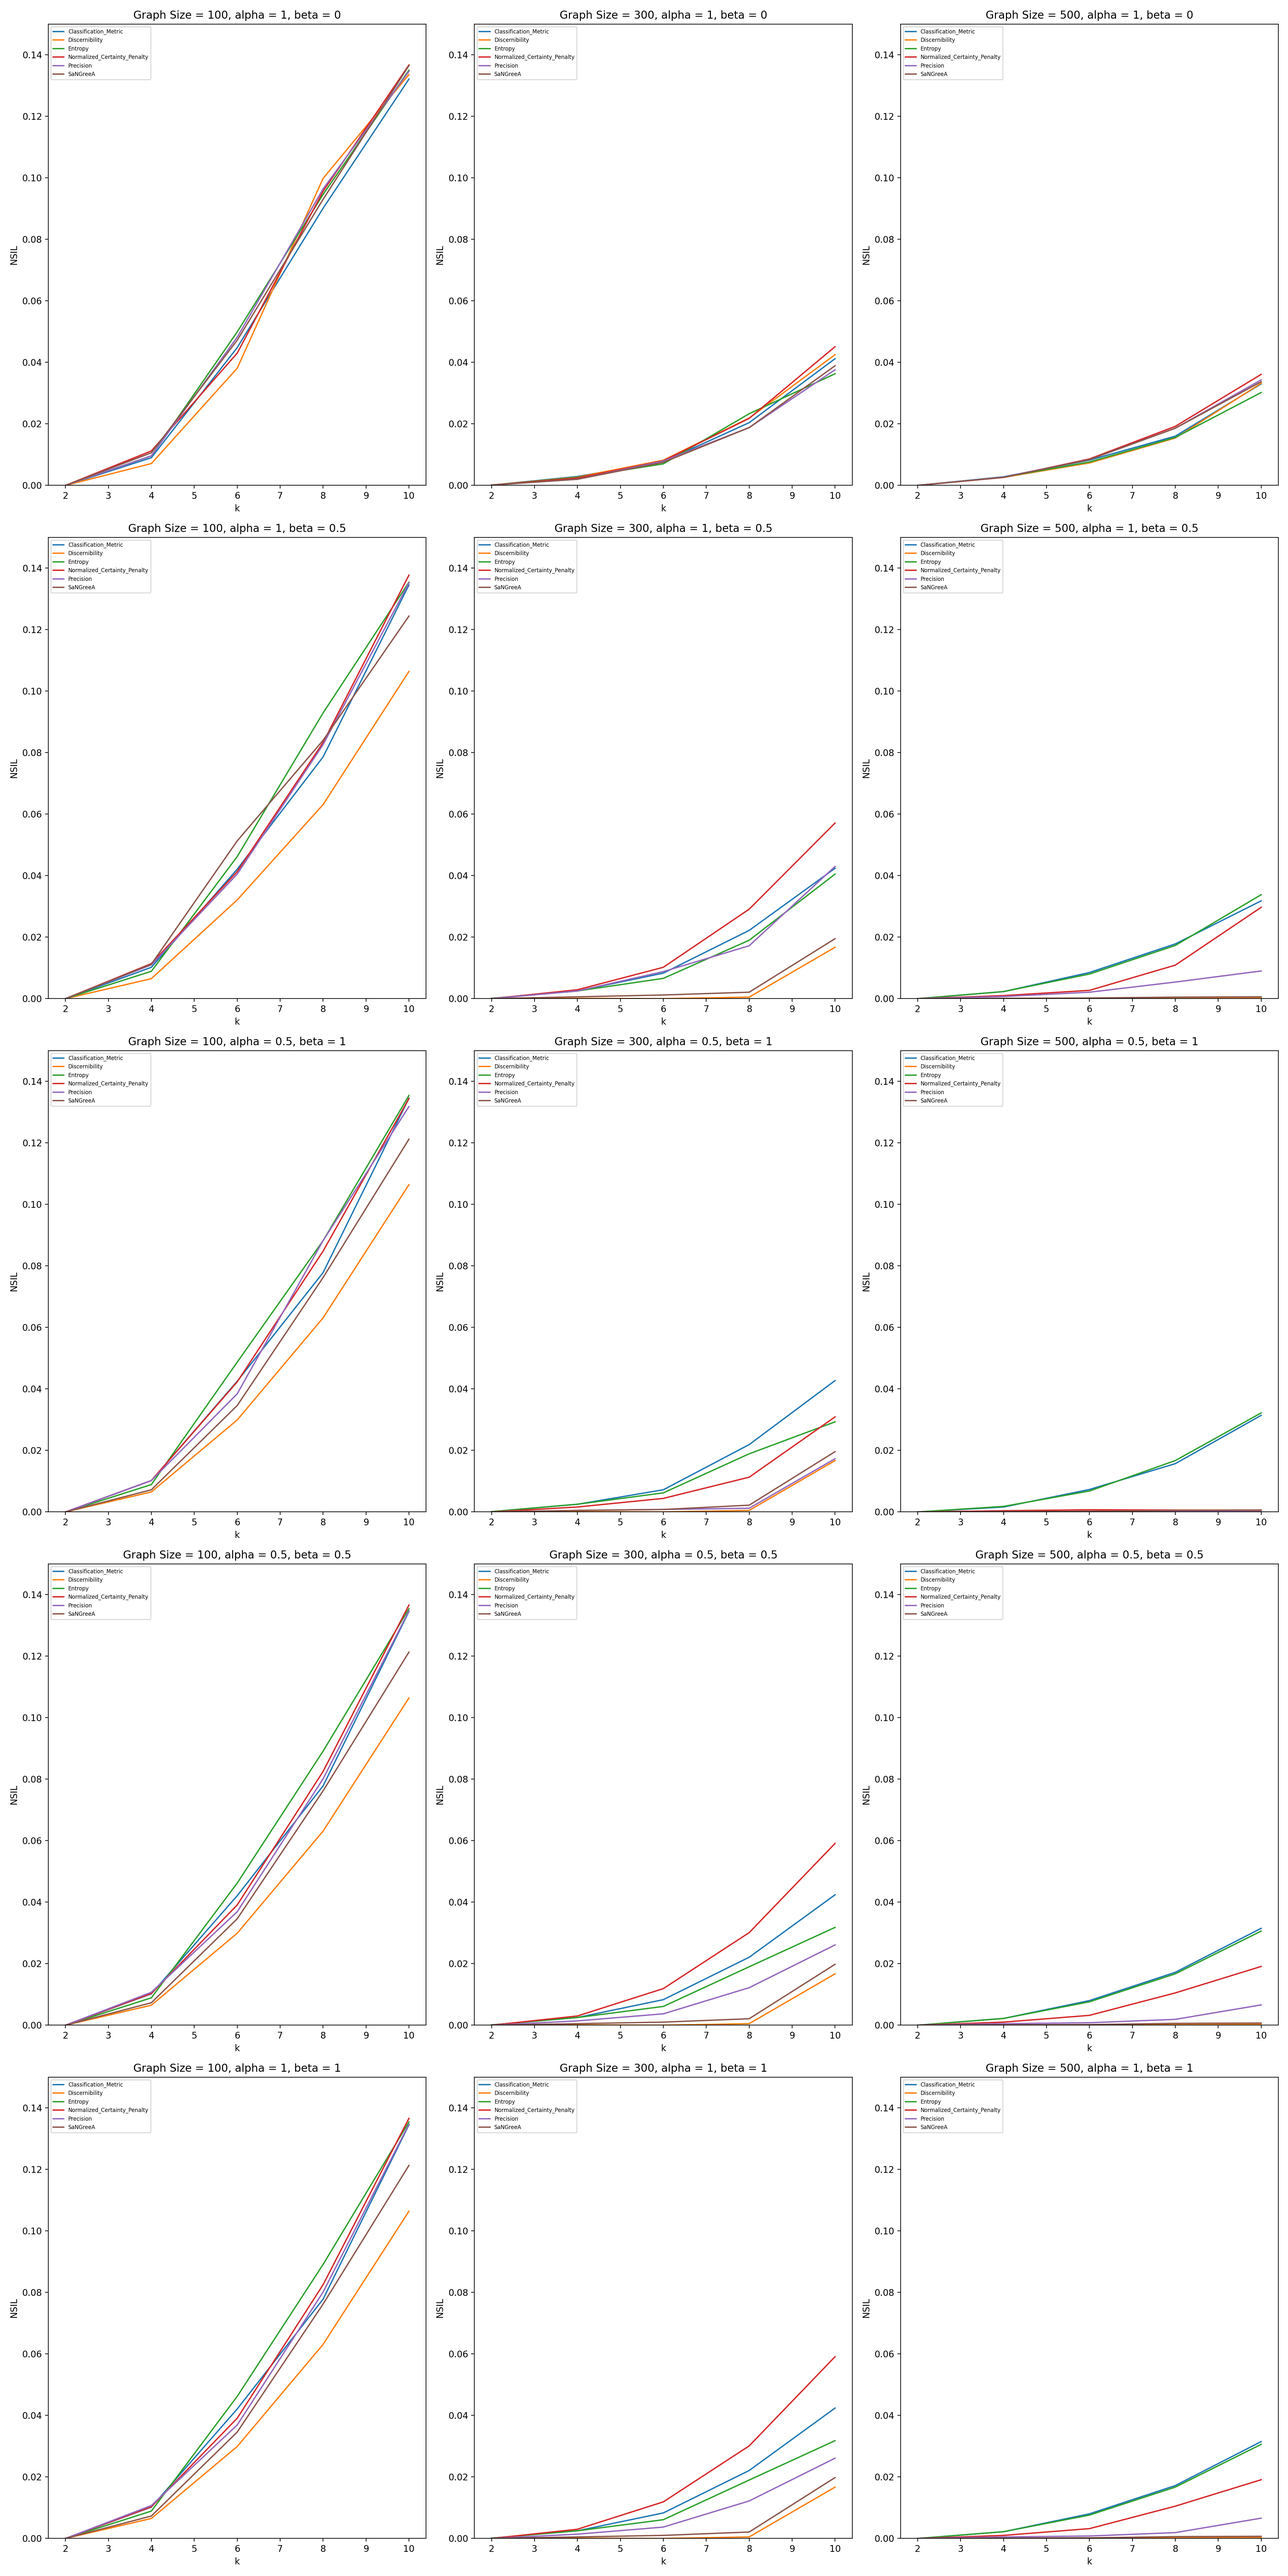
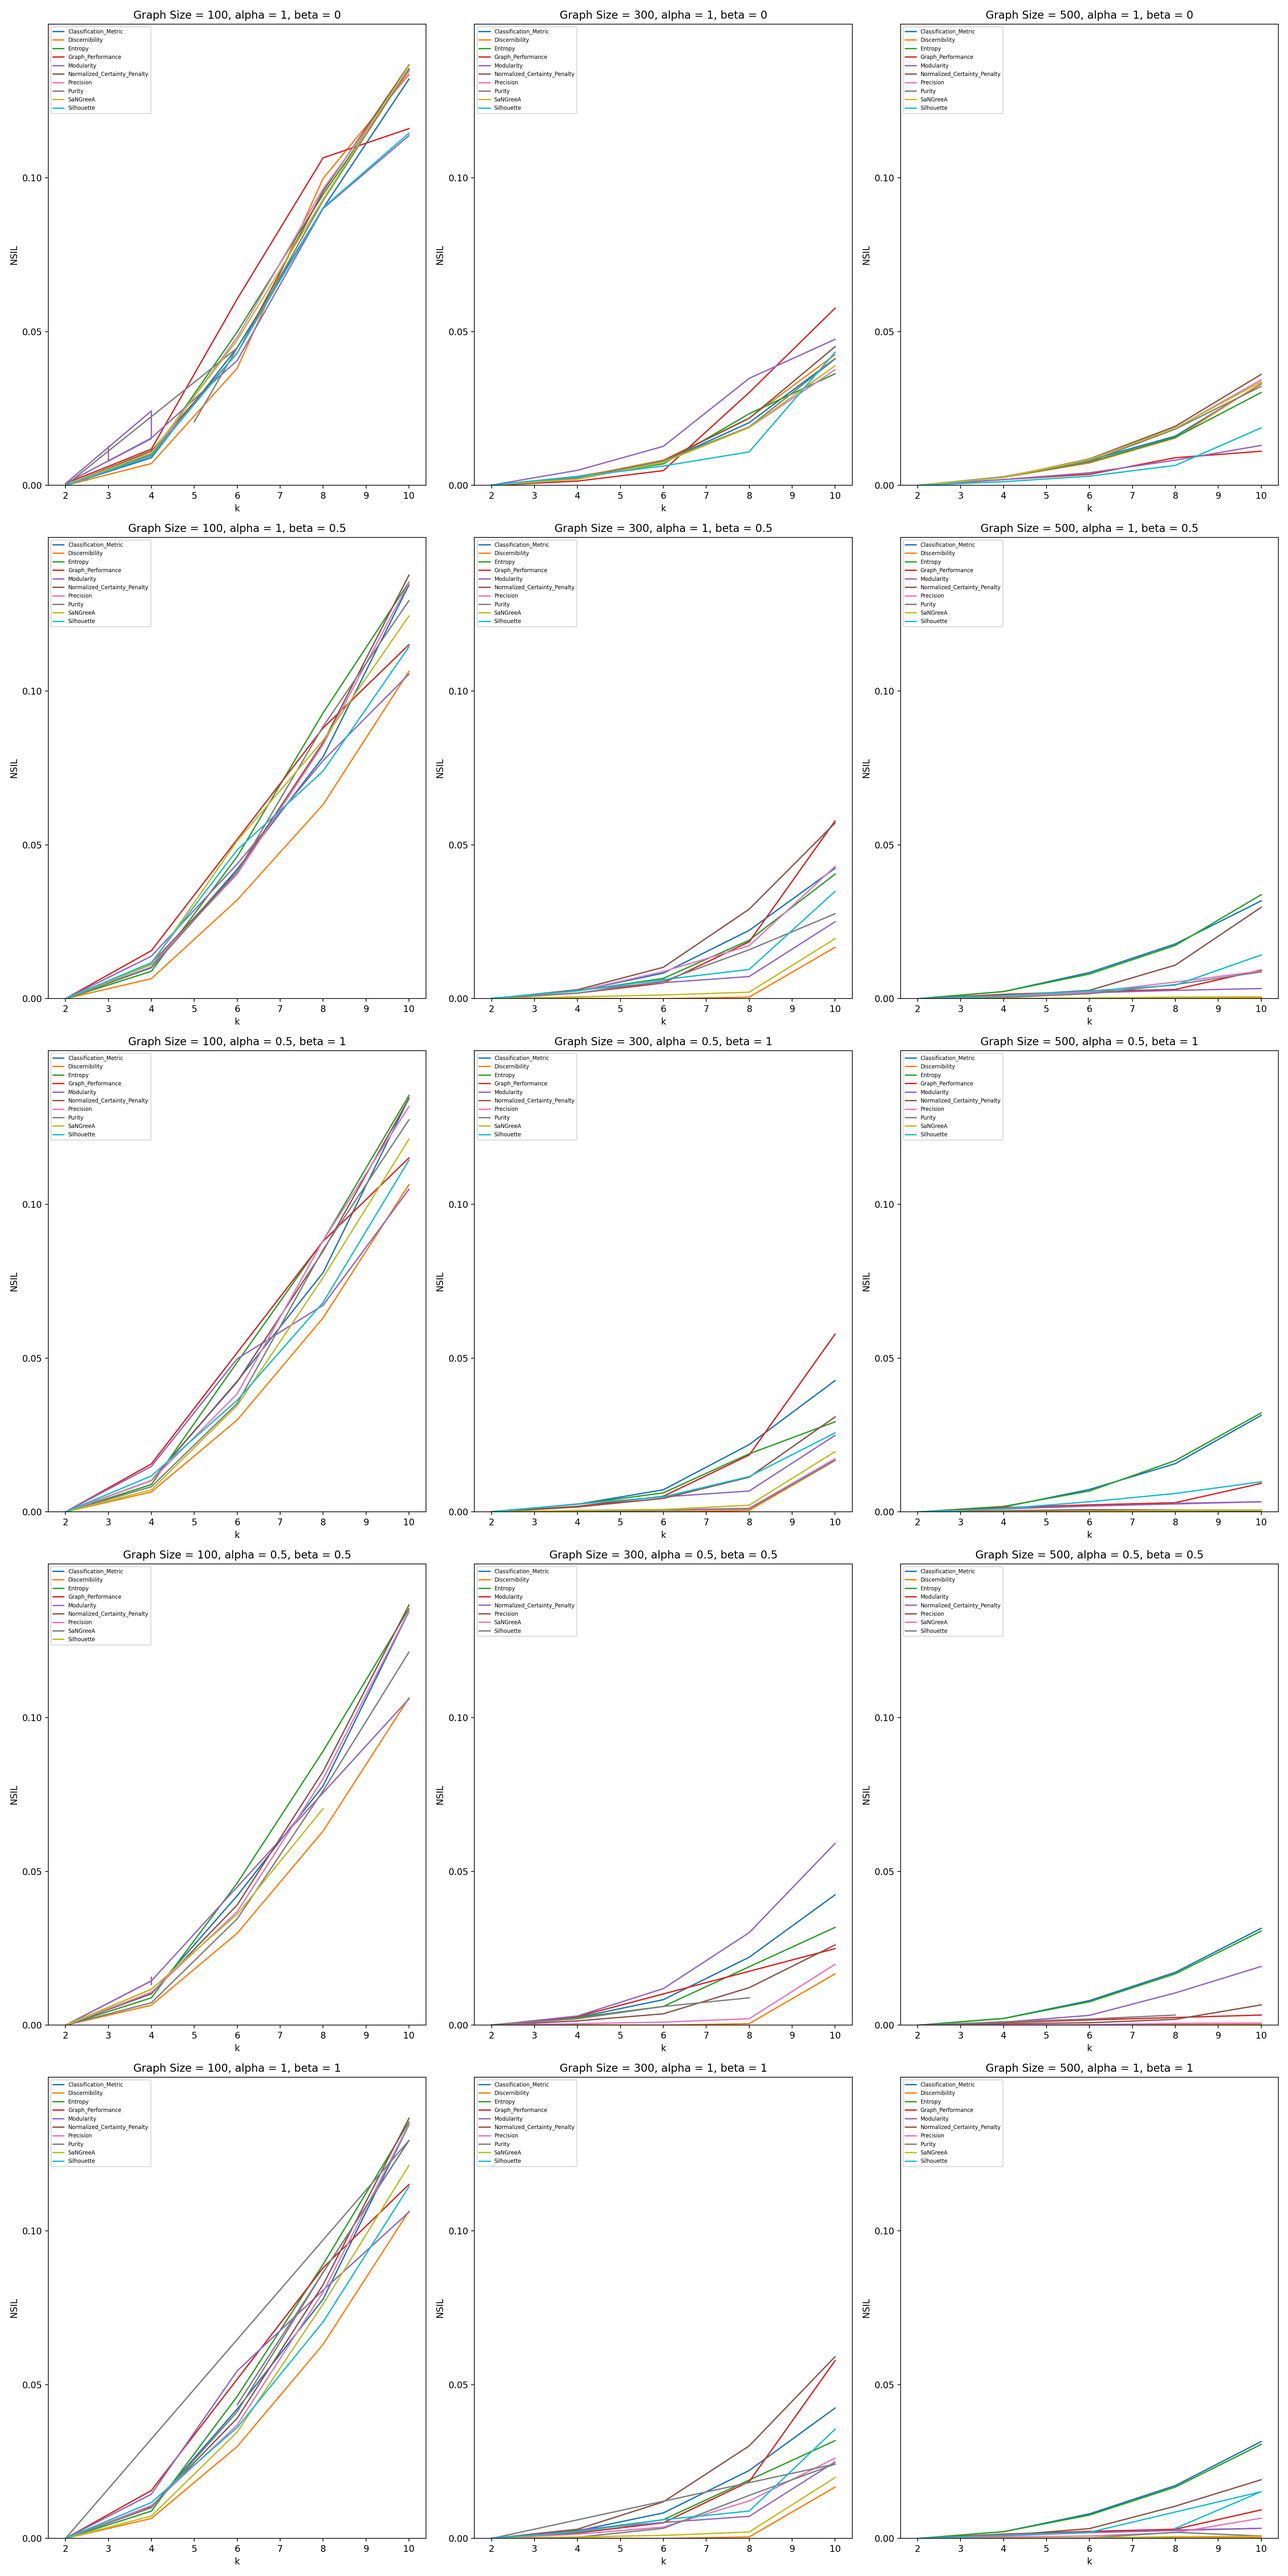
Add results for 1.000

diff --git a/engines/visualizationEngine.py b/engines/visualizationEngine.py
@@ -1,10 +1,12 @@
 import matplotlib.pyplot as plt
 import networkx as nx
+import numpy as np
 import pandas as pd
 from constants import RANDOM_SEED
 from dataHandler.dataProcessor import DataProcessor
 from dataHandler.datasets import Datasets
 from dataHandler.graphGenerator import GraphGenerator
+from engines.anonymizationType import AnonymizationType
 from models.partition import Partition
 
 
@@ -20,18 +22,76 @@ class VisualizationEngine:
         fig, ax = self.__plotMetrics("ngil", "NGIL")
         fig.savefig(f'{self.dataset.getImagePath()}/ngil.png', dpi=200)
 
+        for size in [100, 300, 500, 1000]:
+            fig, ax = self.__plotMetricsSized(size, "ngil", "NGIL", excluded=[AnonymizationType.MODULARITY, AnonymizationType.SILHOUETTE, AnonymizationType.GRAPH_PERFORMANCE, AnonymizationType.PURITY])
+            fig.savefig(f'{self.dataset.getImagePath()}/ngil{size}_traditional.png', dpi=100)
+
     def plotNSIL(self):
         fig, ax = self.__plotMetrics("nsil", "NSIL")
         fig.savefig(f'{self.dataset.getImagePath()}/nsil.png', dpi=200)
+
+        for size in [100, 300, 500, 1000]:
+            fig, ax = self.__plotMetricsSized(size, "nsil", "NSIL", excluded=[AnonymizationType.MODULARITY, AnonymizationType.SILHOUETTE, AnonymizationType.GRAPH_PERFORMANCE, AnonymizationType.PURITY])
+            fig.savefig(f'{self.dataset.getImagePath()}/nsil{size}_traditional.png', dpi=200)
 
     def plotPerformance(self):
         fig, ax = self.__plotPerformance("time", "Time [s]")
         fig.savefig(f'{self.dataset.getImagePath()}/time.png', dpi=200)
 
+    def __plotMetricsSized(self, size: int, y: str, y_label: str, excluded: [AnonymizationType] = None):
+        frame = pd.read_csv(self.dataset.getResultsPath(), header=0)
+
+        if excluded is not None:
+            for type in excluded:
+                frame = frame[frame["method"] != type.value]
+
+        fig, ax = plt.subplots(2, 2, figsize=(50, 50))
+
+        a_b_pairs = [(1, 0), (1, 0.5), (0.5, 1), (1, 1)]
+        for key, grp in frame.groupby(["method"]):
+            col = 0
+            row = 0
+            for index, (alpha, beta) in enumerate(a_b_pairs):
+                small = grp[(grp["size"] == size) & (grp["alpha"] == alpha) & (grp["beta"] == beta)]
+
+                ax[col, row] = small.plot(ax=ax[col, row], kind='line', x='k', y=y, label=key, linewidth=5, legend=0 if index != 0 else 1)
+                ax[col, row].set_title(f"alpha = {alpha}, beta = {beta}", fontsize=22)
+
+                if index == 1:
+                    col += 1
+                    row = 0
+                else:
+                    row += 1
+
+        for axItem in ax.ravel():
+            axItem.legend(loc=2, prop={'size': 22})
+            axItem.set(xlabel='k', ylabel=y_label)
+            axItem.spines["left"].set_linewidth(5)
+            axItem.spines["bottom"].set_linewidth(5)
+            axItem.spines["right"].set_linewidth(5)
+            axItem.spines["top"].set_linewidth(5)
+            axItem.tick_params(axis='both', labelsize=22)
+            axItem.set_xlabel("k", fontsize=22)
+            axItem.set_ylabel(y_label, fontsize=22)
+
+            if y == "ngil":
+                axItem.set_ylim(0, 1)
+                axItem.set_yticks(np.arange(0, 1, 0.05))
+
+            if y == "nsil":
+                axItem.set_ylim(0, 0.15)
+                axItem.set_yticks(np.arange(0, 0.15, 0.05))
+
+        # handles, labels = ax.ravel()[0].get_legend_handles_labels()
+        # fig.legend(handles, labels, loc='upper left', prop={'size': 22})
+        plt.tight_layout()
+
+        return fig, ax
+
     def __plotMetrics(self, y: str, y_label: str):
         frame = pd.read_csv(self.dataset.getResultsPath(), header=0)
 
-        fig, ax = plt.subplots(5, 3, figsize=(20, 40))
+        fig, ax = plt.subplots(5, 3, figsize=(40, 40))
 
         for key, grp in frame.groupby(["method"]):
             index = 0
@@ -58,11 +118,15 @@ class VisualizationEngine:
         for axItem in ax.ravel():
             axItem.legend(loc=2, prop={'size': 6})
             axItem.set(xlabel='k', ylabel=y_label)
+            # plt.yticks(np.arange(0, 1, 10))
+
             if y == "ngil":
                 axItem.set_ylim(0, 1)
+                axItem.set_yticks(np.arange(0, 1, 0.05))
 
             if y == "nsil":
                 axItem.set_ylim(0, 0.15)
+                axItem.set_yticks(np.arange(0, 0.15, 0.05))
 
         plt.tight_layout()
 
@@ -72,7 +136,7 @@ class VisualizationEngine:
         frame = pd.read_csv(self.dataset.getResultsPath(), header=0)
         frame = frame[frame["size"] < 1000]
 
-        fig, ax = plt.subplots(2, 3, figsize=(20, 40))
+        fig, ax = plt.subplots(2, 3, figsize=(20, 40), sharey=True)
         frame = frame[frame["size"] < 1000]
 
         chosen_k = 4
@@ -105,7 +169,7 @@ class VisualizationEngine:
             axItem.legend(loc=2, prop={'size': 6})
             axItem.set(xlabel='Dataset Size', ylabel=y_label)
             axItem.xaxis.set_ticks([100, 300, 500])
-            axItem.set_ylim(0, 800)
+            # axItem.set_ylim(0, 800)
 
         plt.tight_layout()
 
